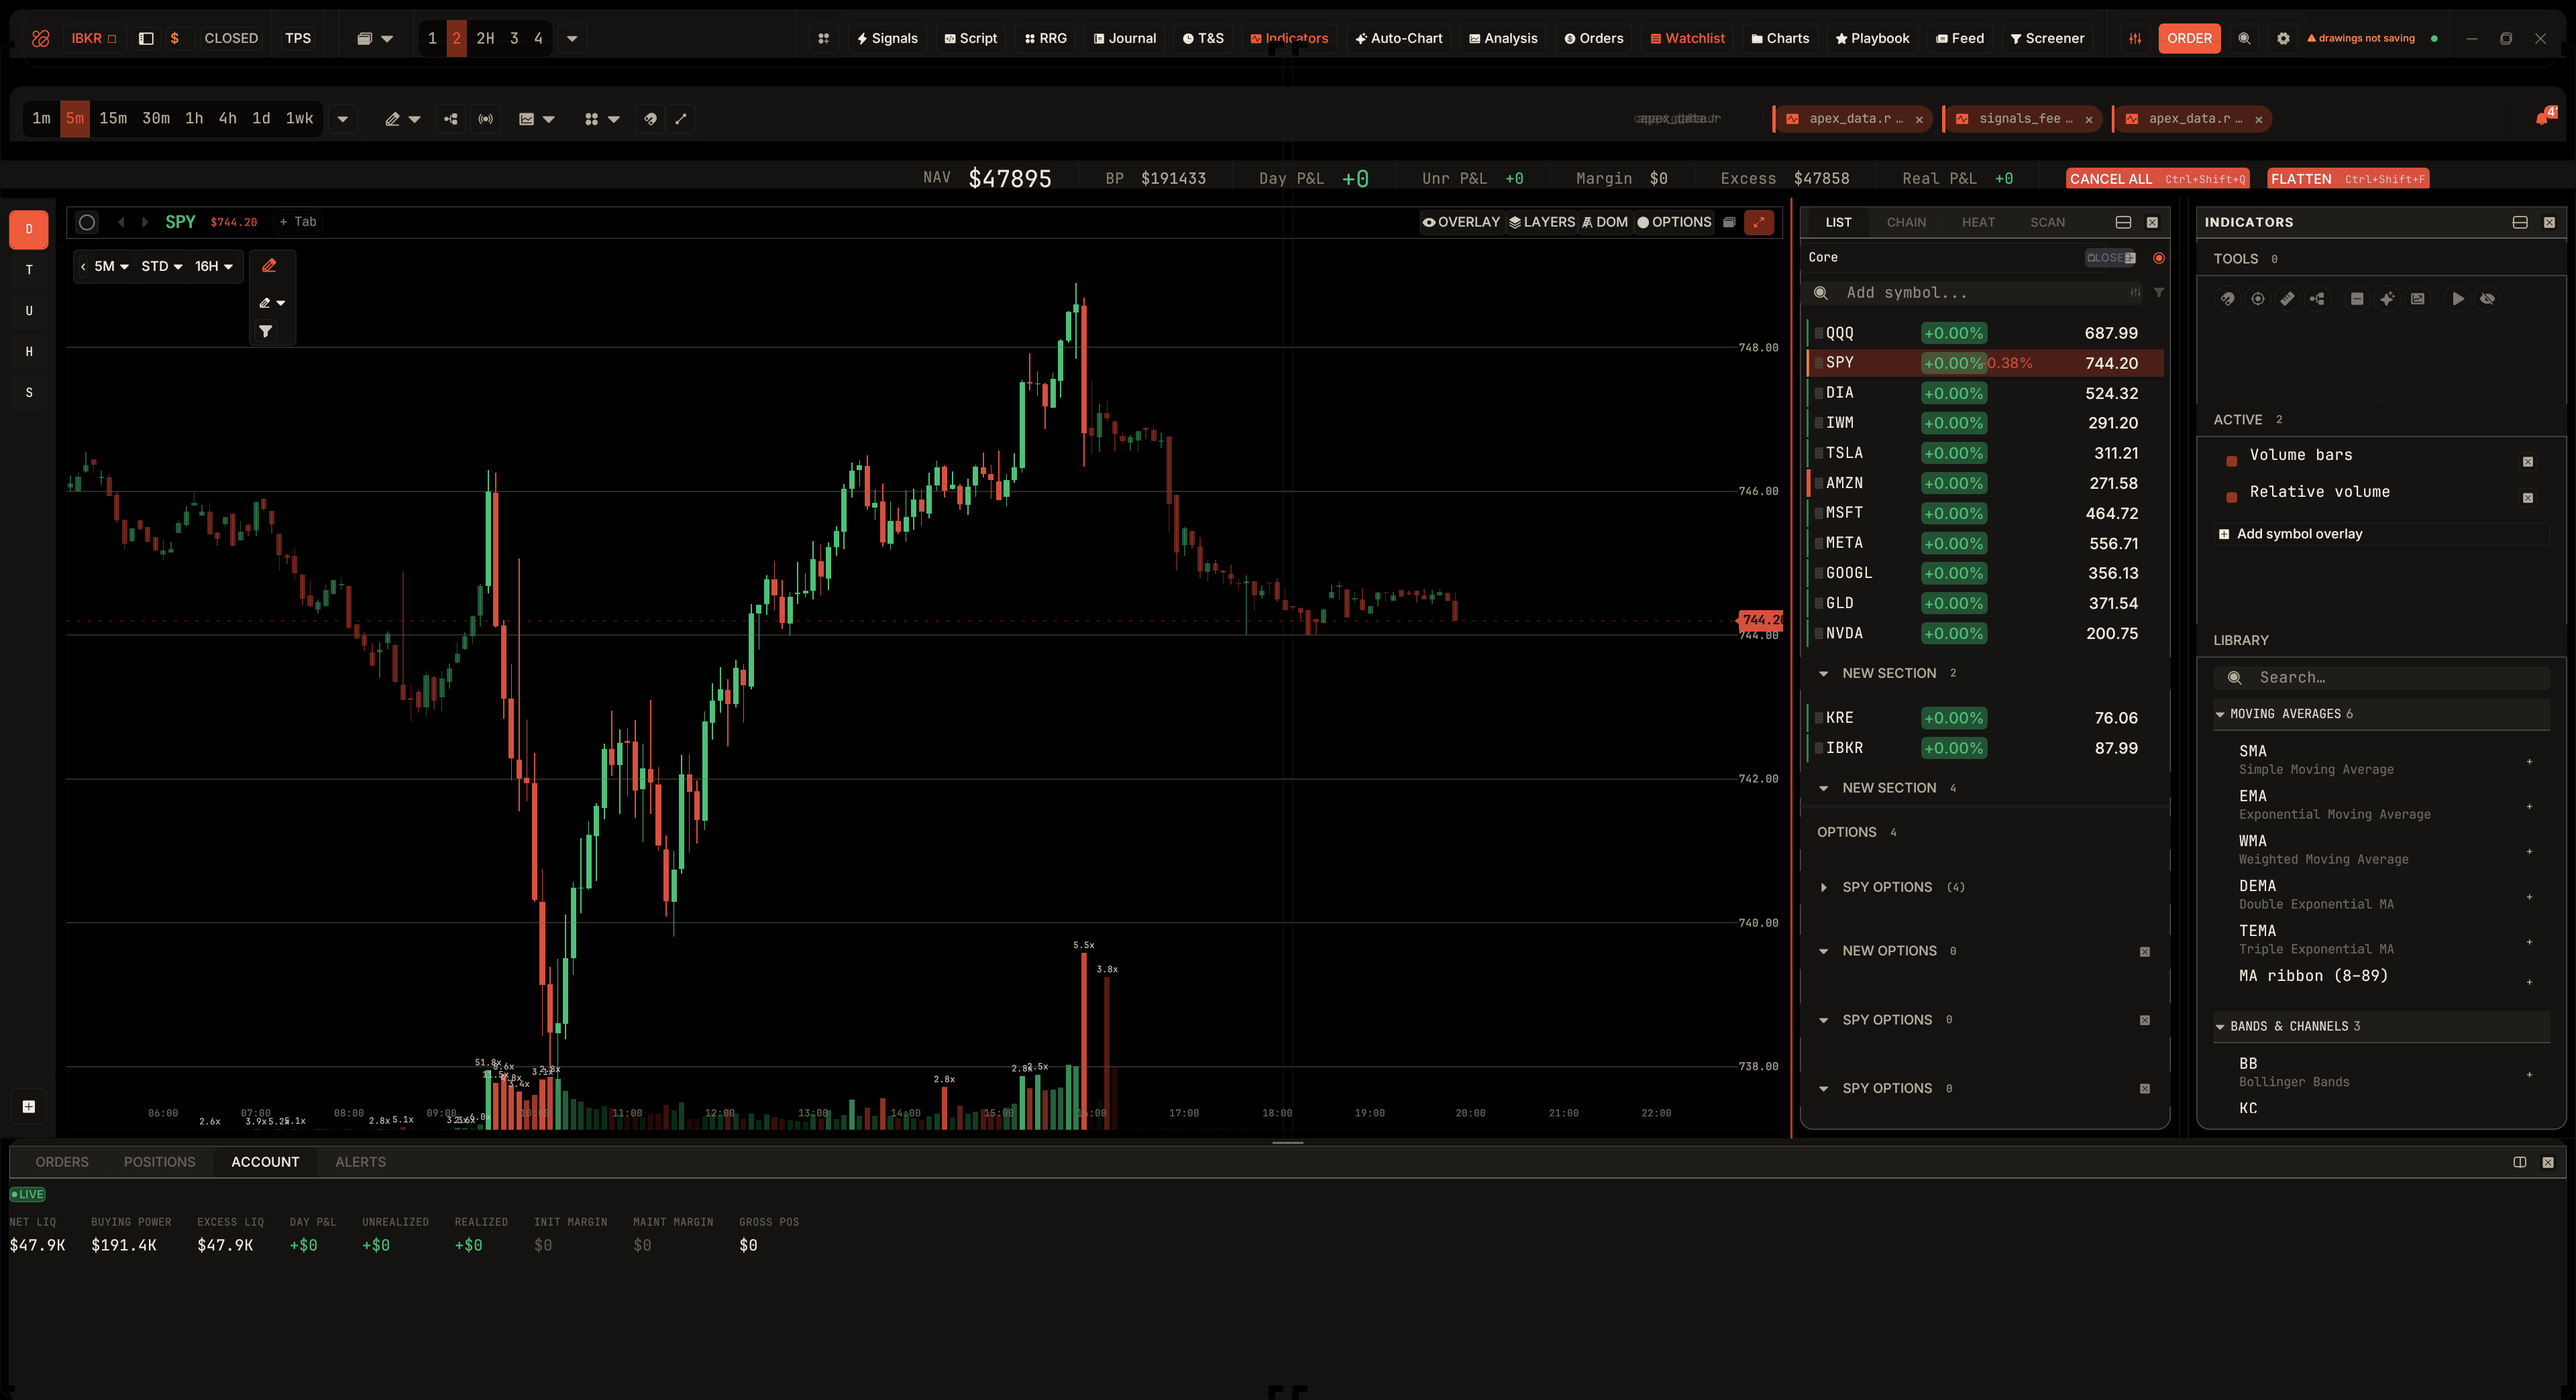
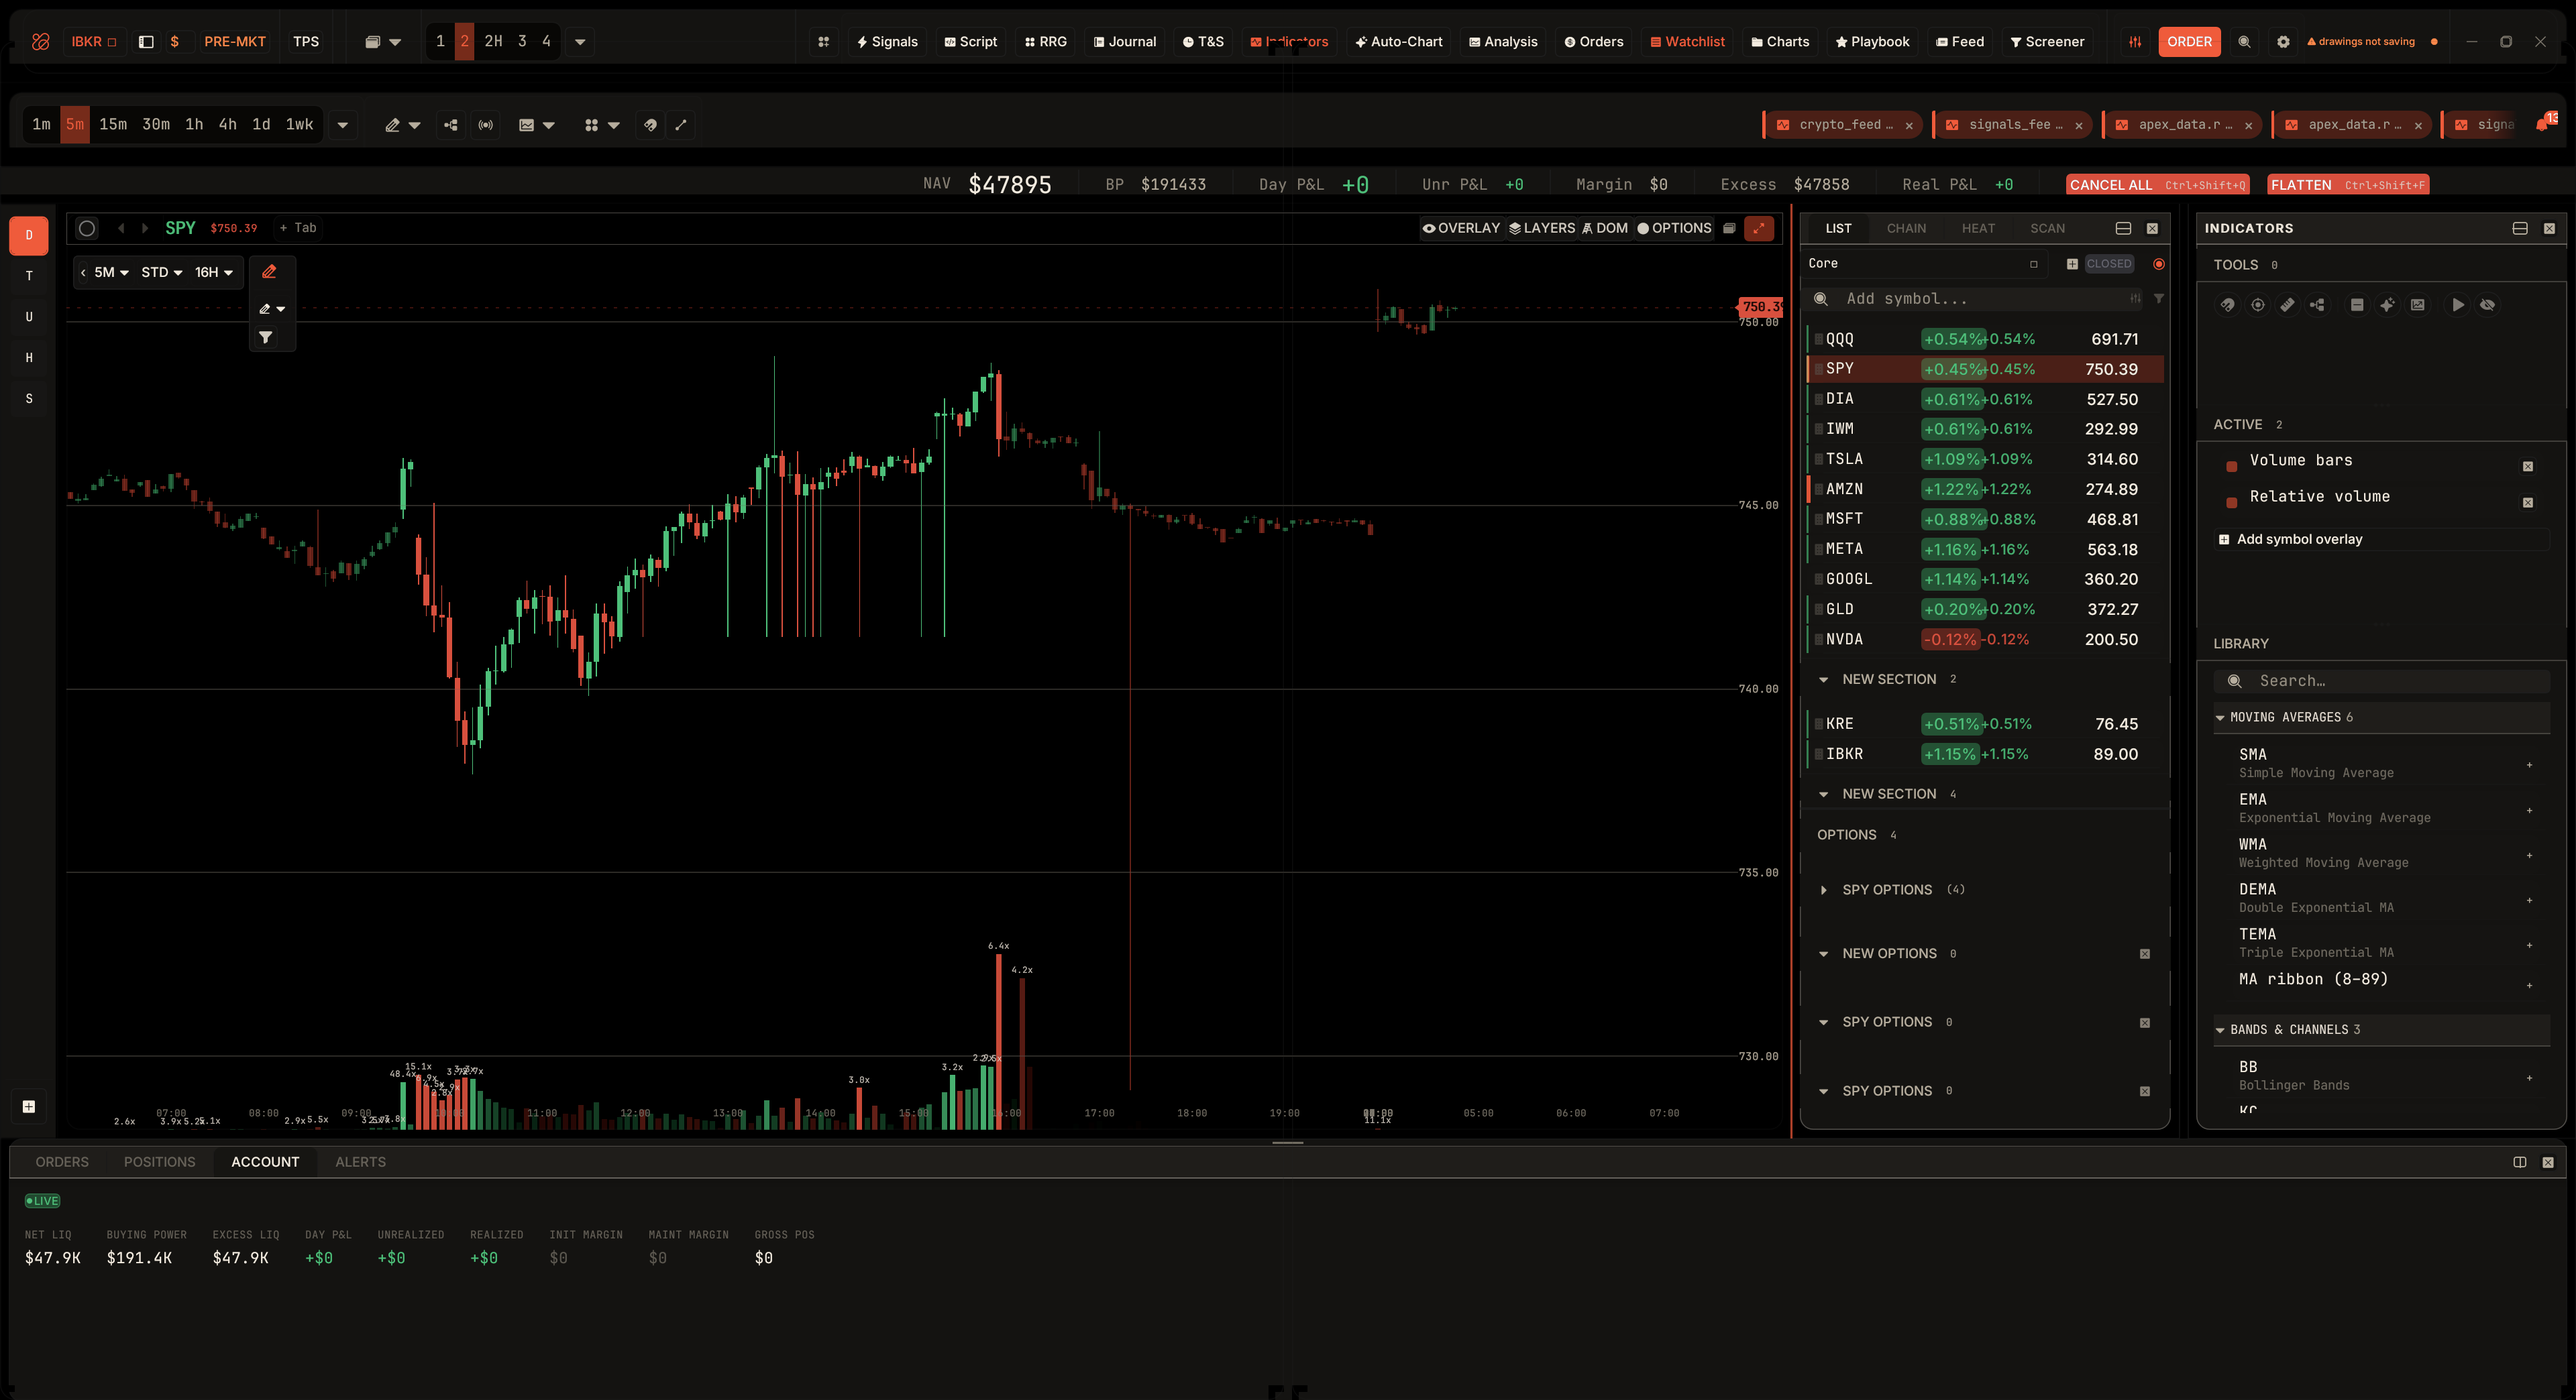
M5: toolbar row kept the frozen 38.0 its sibling was fixed for — clipped 6 styles
Found by a frozen-chrome sweep across the codebase, then verified against
the source and the type scale.

`toolnav_min_height()` (style.rs:1496) exists ONLY because this exact
constant was wrong. Its doc records the history: the row was a hard 38.0
chosen when the dropdown buttons measured ~36.6px; the app-wide type
scale was lifted, the buttons grew, and the corpus caught
`clipped: toolbar.indicators_btn, toolbar.widgets_btn`. The conclusion
written down at the time was that the type scale was not the defect — the
frozen constant was.

That fix landed on the toolnav row and never reached the toolbar row one
level up, which hosts the SAME
`Button::menu(icon).glyph_size(font_lg())` construction and kept its own
copy of the constant:

    let base_h = (38.0 * tb_scale).max(38.0);

Required is font_lg()*1.35 + 2*gap_sm() + 6.0 slack = 43.6px. So the row
was 5.6px short on every style with tb_scale <= 1.0 — aperture, octave,
cadence, alto, lucid, and mariner (0.90, floored back to 38.0).

Fixed by reusing the derived floor instead of pinning a larger number.
Applied as a FLOOR only, not as the scale base, so styles already asking
for a taller bar are untouched: meridien stays 53.2, relay stays 45.6.
Only the short rows move.

Regression cover: `toolbar_fits_controls`, sibling to `strip_fits_hero`,
asserting the row contains its controls for every style. The sweep called
out that no such invariant existed — which is why a fix could be written
[…]

diff --git a/src-tauri/src/chart/renderer/ui/components/toolbar/top_nav.rs b/src-tauri/src/chart/renderer/ui/components/toolbar/top_nav.rs
@@ -388,11 +388,25 @@ pub(crate) fn render(
     let rgap = crate::chart_renderer::ui::style::region_gap();
     let tb_frame = crate::chart_renderer::ui::style::region_frame(t, t.toolbar_bg)
         .inner_margin(egui::Margin { left: (gap_xs() + rgap) as i8, right: rgap as i8, top: 0, bottom: 0 });
-    // The dropdown menu buttons (workspace/indicators/widgets) are ~36.6px tall and
-    // do NOT scale with tb_scale, so any toolbar shorter than ~38px clips them at the
-    // bottom (compact mode used 30px; tb_scale<1 also shrank it below the buttons).
-    // Floor the effective height at 38px — the known clip-free value.
-    let base_h = (38.0 * tb_scale).max(38.0);
+    // The dropdown menu buttons (workspace/indicators/widgets) do NOT scale with
+    // tb_scale, so a toolbar shorter than they are clips them at the bottom.
+    //
+    // This floor USED to be a frozen `38.0` — "the known clip-free value". It is
+    // the same constant, hosting the same `Button::menu(icon).glyph_size(font_lg())`
+    // construction, that `toolnav_min_height()` was written to replace one row
+    // down: see its doc comment, which records the corpus catching
+    // `clipped: toolbar.indicators_btn, toolbar.widgets_btn` after the app-wide
+    // type scale was lifted and the buttons outgrew the frozen row. That fix
+    // landed on the toolnav row and never reached this one, so this row went on
+    // clipping: the buttons now need font_lg()*1.35 + 2*gap_sm() + slack = 43.6px
+    // against a 38.0 box — 5.6px short on every style with tb_scale <= 1.0
+    // (aperture, octave, cadence, alto, lucid, mariner).
+    //
+    // Reuse the derived floor rather than re-pinning a bigger number. Note it is
+    // applied as a FLOOR only, not as the scale base: styles that already ask for
+    // a taller bar (meridien 1.40 -> 53.2, relay 1.20 -> 45.6) keep exactly the
+    // height they had, so this raises the short rows without restyling the tall ones.
+    let base_h = (38.0 * tb_scale).max(crate::chart_renderer::ui::style::toolnav_min_height());
     egui::TopBottomPanel::top("tb")
         .frame(tb_frame)
         // Add 2×gap to the reserved height so the card itself keeps `base_h`

diff --git a/src-tauri/src/chart/renderer/ui/style.rs b/src-tauri/src/chart/renderer/ui/style.rs
@@ -4063,6 +4063,40 @@ mod m1_ladder_tests {
              so this invariant is no longer actually being exercised"
         );
     }
+
+    /// M5 — the toolbar row must contain the controls it hosts, for every style.
+    ///
+    /// Sibling of [`strip_fits_hero`]. `toolnav_min_height()` was written to
+    /// replace a frozen `38.0` after the corpus caught the toolnav clipping its
+    /// dropdown buttons, but the toolbar row one level up kept its own copy of
+    /// that constant and went on clipping by ~5.6px on six styles. Nothing
+    /// caught it, because a bare `38.0` is not a token violation — it only
+    /// becomes wrong relative to a type scale that lives somewhere else.
+    ///
+    /// This asserts the relationship directly: whatever the row resolves to, it
+    /// is at least what the buttons inside it need.
+    #[test]
+    fn toolbar_fits_controls() {
+        let _guard = M1_GLOBAL_STATE_TEST_LOCK.lock().unwrap_or_else(|e| e.into_inner());
+        let prev_active = ACTIVE_STYLE.load(std::sync::atomic::Ordering::Acquire);
+
+        let n = style_store().read().unwrap_or_else(|e| e.into_inner()).len() as u8;
+        let mut failures: Vec<String> = Vec::new();
+        for id in 0..n {
+            set_active_style(id);
+            let need = toolnav_min_height();
+            // Mirrors the resolution in top_nav.rs: scale the authored base, then
+            // floor at what the controls actually require.
+            let resolved = (38.0 * current().toolbar_height_scale).max(need);
+            if resolved < need {
+                failures.push(format!(
+                    "style {id}: toolbar resolves to {resolved} but its controls need {need}"
+                ));
+            }
+        }
+        set_active_style(prev_active);
+        assert!(failures.is_empty(), "clipped toolbar controls:\n  {}", failures.join("\n  "));
+    }
 }
 
 // ── M1 Change E proof test ───────────────────────────────────────────────────
